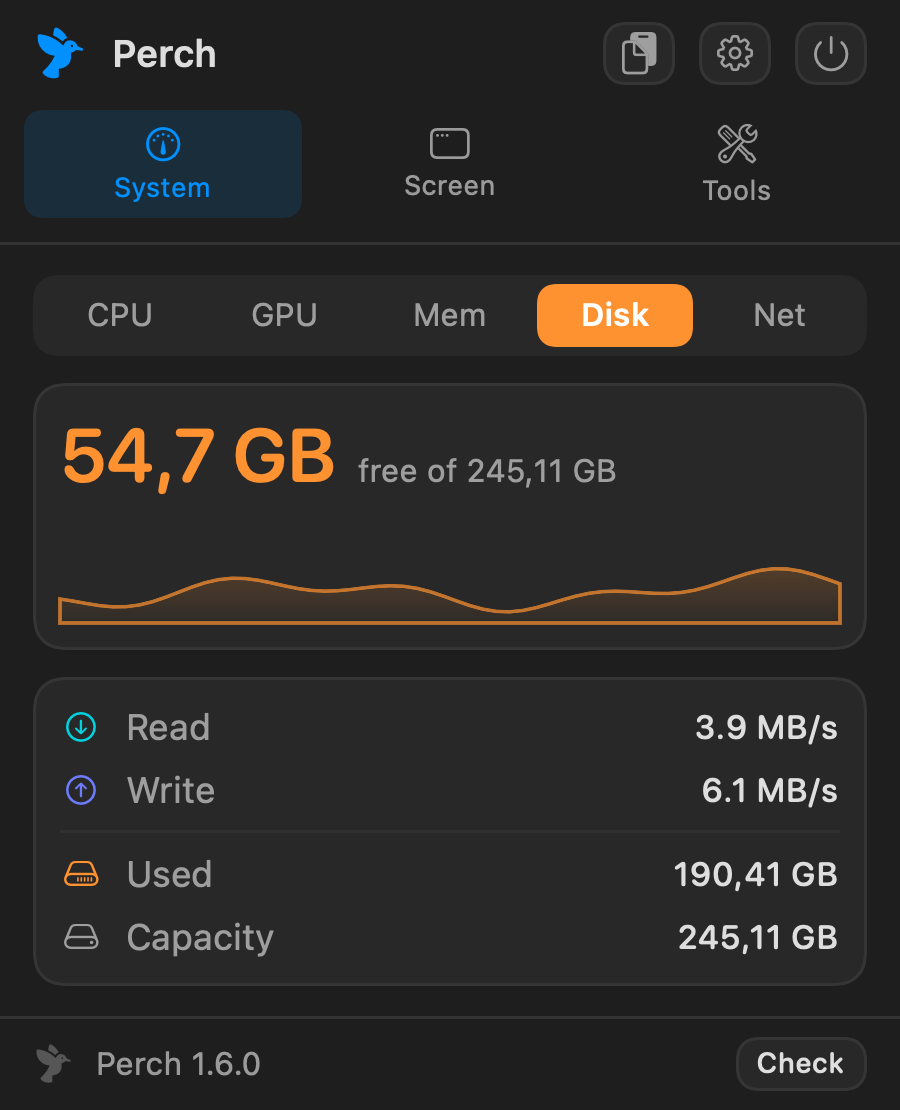
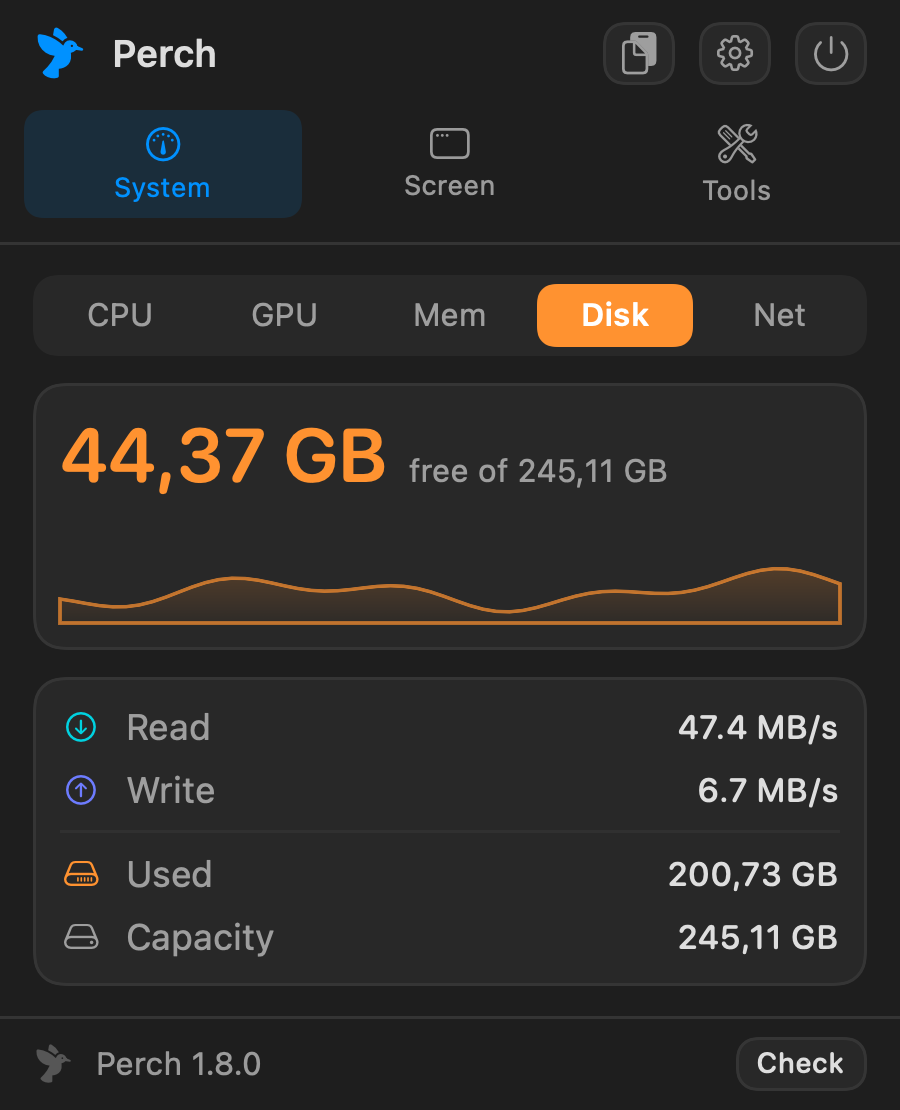
Bring the site up to 1.8.0
Screenshots and self-installing updates are headline features now, so the
lede names them and the capability grid carries both. Prevent Sleep was
described as a switch that stays on until you turn it off, which stopped
being true when it grew sessions and triggers.

Panel replicas are re-rendered from the current build, so they show the
Screenshot tile and read 1.8.0 rather than 1.6.0, and the tools in the
replica are in the order the app draws them.

Reordering that list broke it: the trailing bracket travelled with the
entry that used to be last, which left the array malformed and the grid
empty. Caught because the tools rendered as nothing rather than because
the diff looked wrong.

diff --git a/docs/index.html b/docs/index.html
@@ -7,7 +7,7 @@
 <meta name="description" content="A free, open-source macOS menu bar utility: window tiling, clipboard history, Alt-Tab switcher, system monitoring, night mode, disk cleaning, and screen, keyboard and trackpad cleaning.">
 <link rel="icon" href="perch-icon.png">
 <meta property="og:title" content="Perch — a dozen Mac utilities in one place">
-<meta property="og:description" content="Window tiling, clipboard history, Alt-Tab, system monitoring, night mode and cleaning modes — free and open source.">
+<meta property="og:description" content="Window tiling, screenshots, clipboard history, Alt-Tab, system monitoring, night mode and cleaning modes — free and open source.">
 <meta property="og:image" content="https://ishanmalu.github.io/Perch/perch-icon.png">
 <meta property="og:type" content="website">
 <style>
@@ -576,6 +576,7 @@
 <symbol id="i-gauge" viewBox="0 0 24 24"><circle cx="12" cy="12" r="9"/><path d="M12 12l3.5-3.5"/><path d="M12 5.5v1.2M18.5 12h-1.2M12 18.5v-1.2M5.5 12h1.2"/></symbol>
 <symbol id="i-macwindow" viewBox="0 0 24 24"><rect x="3" y="5" width="18" height="14" rx="2.5"/><path d="M3 9.5h18"/><circle cx="6.4" cy="7.2" r=".55" fill="currentColor"/><circle cx="8.6" cy="7.2" r=".55" fill="currentColor"/><circle cx="10.8" cy="7.2" r=".55" fill="currentColor"/></symbol>
 <symbol id="i-tools" viewBox="0 0 24 24"><path d="M14.5 5.8a3.4 3.4 0 0 0 4.5 4.4l-8.8 8.8a1.9 1.9 0 1 1-2.7-2.7z"/><path d="M5.6 5.1l2.6 2.6"/><path d="M4.4 8.9a3.4 3.4 0 0 0 4.6 4.5"/><path d="M15.4 15.6l3.9 3.9"/></symbol>
+<symbol id="i-camera" viewBox="0 0 24 24"><path d="M3 8.5A1.5 1.5 0 0 1 4.5 7h2.2l1.1-1.8A1 1 0 0 1 8.7 4.7h6.6a1 1 0 0 1 .9.5L17.3 7h2.2A1.5 1.5 0 0 1 21 8.5v9A1.5 1.5 0 0 1 19.5 19h-15A1.5 1.5 0 0 1 3 17.5z"/><circle cx="12" cy="13" r="3.4"/></symbol>
 <symbol id="i-laptop" viewBox="0 0 24 24"><rect x="4" y="5" width="16" height="10" rx="1.5"/><path d="M2 19h20"/></symbol>
 <symbol id="i-bird" viewBox="0 0 24 24"><path fill="currentColor" stroke="none" d="M15.6 3.2a3.9 3.9 0 0 0-3.9 3.9c0 .2 0 .4.1.6L4.1 12c-.5.3-.7.9-.4 1.4.2.4.6.6 1 .5l2.6-.5-2.4 6.3c-.2.5.1 1.1.6 1.3.5.2 1.1-.1 1.3-.6l1.3-3.5 2.6 3.7c.3.4 1 .5 1.4.2.4-.3.5-.9.2-1.4l-2.2-3.1 4.8-1c2.8-.6 4.8-3 4.8-5.9V6.4l1.6-1.7c.3-.3.2-.7-.2-.8l-1.9-.4a3.9 3.9 0 0 0-3.6-.3zm.7 3.2a.9.9 0 1 1 0 1.8.9.9 0 0 1 0-1.8z"/></symbol>
 <symbol id="i-window" viewBox="0 0 24 24">
@@ -662,8 +663,8 @@
   </div>
   <h1>A dozen Mac utilities. Meet Perch.</h1>
   <p class="lede">
-    Window tiling, clipboard history, Alt-Tab, system stats, night mode and
-    cleaning modes — one panel, every one on a shortcut.
+    Window tiling, screenshots, clipboard history, Alt-Tab, system stats,
+    night mode and cleaning modes — one panel, every one on a shortcut.
   </p>
 
   <p class="specs">
@@ -798,7 +799,8 @@
         <h3>The small stuff, one click away</h3>
         <p>Blank the screen to clean it. Lock the keyboard, or just the
         trackpad, and wipe without typing into anything. Clear caches to the
-        Trash. Keep the Mac awake. Paste from history. Try any of them below.</p>
+        Trash. Take a screenshot and keep taking them. Keep the Mac awake for as
+        long as you need. Paste from history. Try any of them below.</p>
         <div class="keys">
           <kbd>⌘⇧V</kbd> <kbd>⌥Tab</kbd> <kbd>⌃⌥N</kbd> <kbd>⌃⌥K</kbd>
         </div>
@@ -848,9 +850,11 @@
       <div class="cap"><svg class="ico"><use href="#i-sparkle"/></svg><div><b>Screen cleaning</b><span>Flat colours that double as a dead-pixel test.</span></div></div>
       <div class="cap"><svg class="ico"><use href="#i-keyboard"/></svg><div><b>Keyboard cleaning</b><span>Input locked on a countdown so you can wipe the keys.</span></div></div>
       <div class="cap"><svg class="ico"><use href="#i-trackpad"/></svg><div><b>Trackpad cleaning</b><span>Pointer frozen, keyboard live so Esc still lets you out.</span></div></div>
+      <div class="cap"><svg class="ico"><use href="#i-sparkle"/></svg><div><b>Screenshots</b><span>Drag to capture and the crosshair stays up for the next one. Grab a window, a display, or on a delay; read the text out of a selection; sample a colour; pin a shot above everything.</span></div></div>
+      <div class="cap"><svg class="ico"><use href="#i-download"/></svg><div><b>Updates install themselves</b><span>Perch replaces itself and restarts. The new build must be signed by the same key as the running one, or it is refused before anything moves.</span></div></div>
       <div class="cap"><svg class="ico"><use href="#i-moon"/></svg><div><b>Night mode</b><span>6500K to 2400K via display gamma. Manual or scheduled.</span></div></div>
       <div class="cap"><svg class="ico"><use href="#i-sun"/></svg><div><b>Brightness</b><span>Per display, including external monitors over any cable.</span></div></div>
-      <div class="cap"><svg class="ico"><use href="#i-coffee"/></svg><div><b>Prevent sleep</b><span>Keeps the Mac and display awake until you switch it off.</span></div></div>
+      <div class="cap"><svg class="ico"><use href="#i-coffee"/></svg><div><b>Keep awake</b><span>Hold it open, or for 15 minutes to 8 hours with the time left on the row. It can start itself while plugged in, while an app runs, or while the CPU is busy, and let the display sleep while the machine works.</span></div></div>
     </div>
   </div>
 </section>
@@ -1316,11 +1320,12 @@ Scripts/install.sh</pre>
         d:'Every window rather than every app, in the order you last used them, with live previews. W closes one.' },
       { n:'Disk Clean',    i:'i-drive',    k:'panel',
         d:'Caches, logs and old downloads. A path guard refuses system and home directories, and everything goes to the Trash.' },
-      { n:'Screenshot',    i:'i-sparkle',  k:'⌃⌥⇧4',
-        d:'Drag to capture, and the crosshair stays up for the next one. W grabs a window, T copies the text in a selection, C samples a colour, P leaves it pinned on screen.' },
       { n:'Trackpad Clean',i:'i-trackpad', k:'⌃⌥⇧T',
-        d:'Freezes the pointer only. The keyboard stays live, so press ⎋ to unlock when you are done wiping.' }
+        d:'Freezes the pointer only. The keyboard stays live, so press ⎋ to unlock when you are done wiping.' },
+      { n:'Screenshot',    i:'i-camera',   k:'⌃⌥⇧4',
+        d:'Drag to capture and the crosshair stays up for the next one. W grabs a window, F a display, D after a countdown, T copies the text in a selection, C samples a colour, P pins it above everything.' }
     ];
+
     var tName = document.getElementById('toolName'), tDesc = document.getElementById('toolDesc');
     var tBtns = T.map(function (item, i) {
       var b = document.createElement('div');

diff --git a/Sources/Perch/RenderMode.swift b/Sources/Perch/RenderMode.swift
@@ -14,7 +14,7 @@ enum RenderMode {
     static var isActive = false
 
     /// Version shown in place of the bundle's, which is absent under the harness.
-    static var version = "1.6.0"
+    static var version = "1.8.0"
 
     /// A representative process list, so screenshots do not expose the apps
     /// running on the machine that rendered them.
